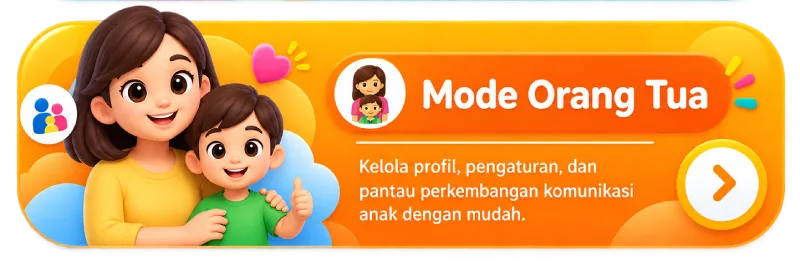
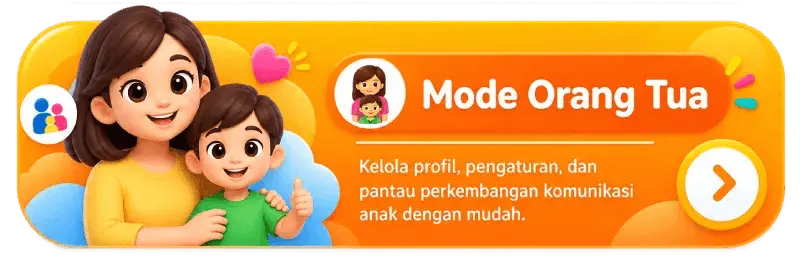
bug fixed parent mode lanjutan day 2 (v1)

diff --git a/src/screens/parent/ParentMessagesScreen.tsx b/src/screens/parent/ParentMessagesScreen.tsx
@@ -146,7 +146,7 @@ export default function ParentMessagesScreen() {
   };
 
   return (
-    <View style={[styles.container, { paddingBottom: 80 + insets.bottom }]}>
+    <View style={styles.container}>
       <View style={styles.overlapWrapper}>
 
       <KeyboardAvoidingView 
@@ -164,7 +164,7 @@ export default function ParentMessagesScreen() {
           showsVerticalScrollIndicator={false}
         />
 
-        <View style={styles.inputSection}>
+        <View style={[styles.inputSection, { paddingBottom: 80 + insets.bottom }]}>
           {/* Custom Quick Replies (Moved above toggle) */}
           <ScrollView horizontal showsHorizontalScrollIndicator={false} style={styles.quickReplyScroll} contentContainerStyle={styles.quickReplyContent}>
             {customQuickReplies.map((reply, index) => (
@@ -267,7 +267,6 @@ const styles = StyleSheet.create({
     marginTop: -60,
     zIndex: 10,
     elevation: 5,
-    overflow: 'hidden',
   },
   flex1: {
     flex: 1,

diff --git a/src/screens/parent/ParentLocationScreen.tsx b/src/screens/parent/ParentLocationScreen.tsx
@@ -158,7 +158,7 @@ export default function ParentLocationScreen() {
   };
 
   return (
-    <View style={[styles.container, { paddingBottom: 80 + insets.bottom }]}>
+    <View style={styles.container}>
       <View style={styles.overlapWrapper}>
         <View style={styles.mapContainer}>
           <MapView
@@ -348,7 +348,6 @@ const styles = StyleSheet.create({
     marginTop: -60,
     zIndex: 10,
     elevation: 5,
-    overflow: 'hidden',
   },
   mapContainer: {
     position: 'absolute',
@@ -357,6 +356,9 @@ const styles = StyleSheet.create({
     right: 0,
     height: height * 0.45,
     zIndex: 0,
+    borderTopLeftRadius: 32,
+    borderTopRightRadius: 32,
+    overflow: 'hidden',
   },
   map: {
     ...StyleSheet.absoluteFillObject,
